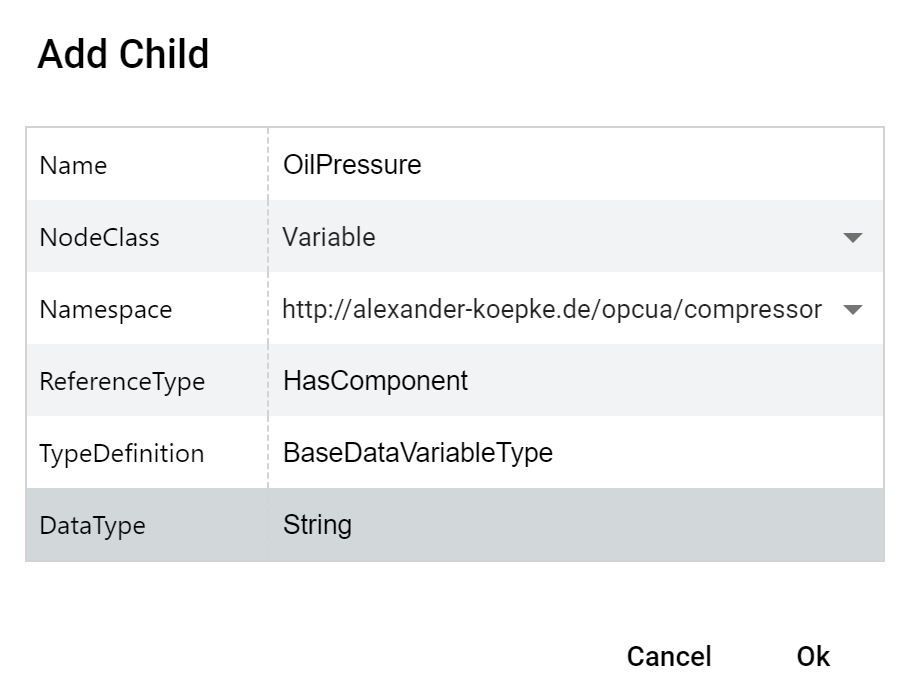
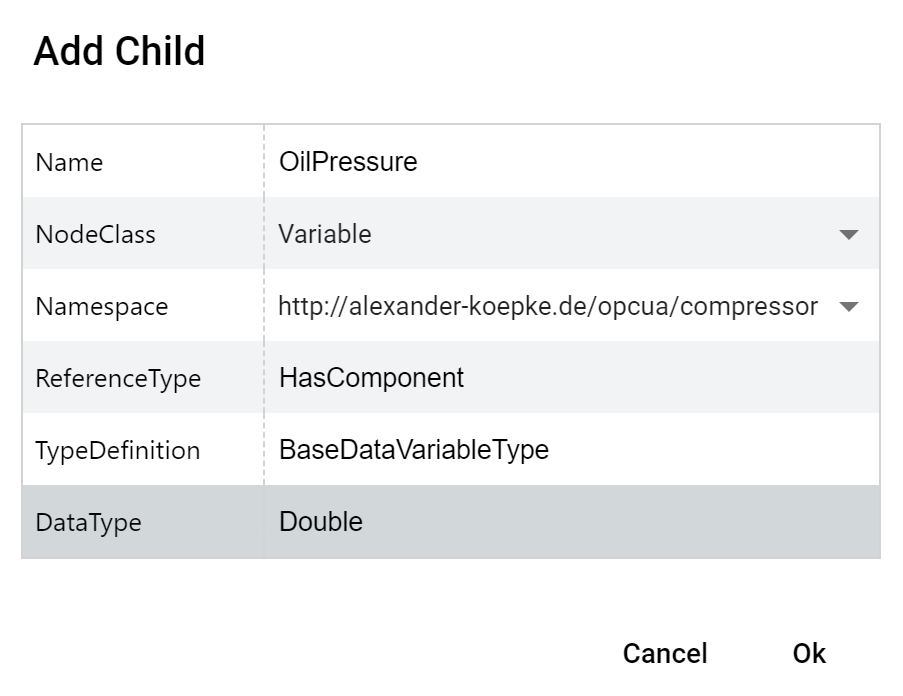
optimize text

diff --git a/content/post/2024-03-20_opcua_compressor_modelling.md b/content/post/2024-03-20_opcua_compressor_modelling.md
@@ -8,42 +8,63 @@ tags:
   - "siome"
 ---
 
-In this multi-step tutorial I'd like to explain (i) how to model a machine in OPC UA, (ii) to create an OPC UA server that simulates values for that machinery, (iii) to read data from the server and sending it upstream (e.g. into an cloud) as well as (iv) to detect anomalies.
+In this comprehensive tutorial, we will explore the process of OPC UA data modelling. The tutorial will cover modeling a machine, creating an OPC UA server to simulate machinery values, reading data from the server and transmitting it downstream (e.g., to the cloud), and detecting anomalies.
  
 ## What is OPC UA?
 To answer this question, I like to cite Stefan Hoppe the President and Executive Director of the OPC Foundation:
 > OPC Unified Architecture (OPC UA) is the information exchange standard for secure, reliable, manufacturer- and platform-independent industrial communications. It enables data exchange between products from different manufacturers and across operating systems. The OPC UA standard is based on specifications that were developed in close cooperation between manufacturers, users, research institutes and consortia, in order to enable consistent information exchange in heterogeneous systems.
->
+>  
 >For nearly three decades, OPC has been, and continues to be, the go to connectivity standard in indus-
 try. With the advent of the Internet of Things (IoT) era, OPC adoption has also shown growth in new, non-industrial markets. By introducing a Service-Oriented-Architecture (SOA) in industrial automation systems in 2007, OPC UA started to offer a scalable, platform-independent solution for interoperability which combines the benefits of web services and integrated security with a consistent data model.
 
 OPC UA is an IEC standard and is therefore ideally suited for collaboration with other organizations.
-The biggest value from my point of view is that OPC UA were able to create an ecosystem for connectivity, it is not just one protocol (opc.tcp) rather can work with different procotols (opc.http, mqtt, ...) and different payload formats (UADP, Json, XML, ...) and even more important today are the so called OPC UA Companion Specs, which provide the best available industrial information model to interact with all sorts for machineries.
+The biggest value from my point of view is that OPC UA were able to create an ecosystem for connectivity, it is not just one protocol (opc.tcp) rather can work with different procotols (opc.http, mqtt, ...) and different payload encodings (UADP, Json, XML, ...) and even more important today are the so called OPC UA Companion Specs, which provide the best available industrial information model to interact with all sorts for machineries.
 
-## Isn't OPC UA too complex for simple use cases?
-Well I believe it is not too complex but let's see a concrete example, we will use an compressor as example for an machine. The compressor is defined by 4 properties
+## Demystifying OPC UA Data Modelling
+### Is OPC UA Too Complex?
+Despite its comprehensive capabilities, OPC UA is not overly complex, as demonstrated through a concrete example. Consider modeling a compressor with four properties:
+
 * EnergyConsumption (double)
-* ErrorState (boolean) 
+* ErrorState (boolean)
 * MachineIdentifier (string)
 * OilPressure (double)
-  
-The defacto standard to model something in OPC UA are NodeSet2 XML files, and there are a variaty of tools to generate them. We are going to use the free [Siemens OPC UA Modeling Editor (SiOME)]([https://support.industry.siemens.com/cs/document/109755133/siemens-opc-ua-modeling-editor-(siome)?dti=0&dl=en&lc=de-DE](https://support.industry.siemens.com/cs/document/109755133/siemens-opc-ua-modeling-editor-(siome)?dti=0&dl=en&lc=de-DE)). SiOME is an Windows application that can be downloaded for free after registration and don't need an installation.
+
+The defacto standard to model something in OPC UA are NodeSet2 XML files, and there are a variaty of tools to generate them. We are going to use the free [Siemens OPC UA Modeling Editor (SiOME)]([https://support.industry.siemens.com/cs/document/109755133/siemens-opc-ua-modeling-editor-(siome)?dti=0&dl=en&lc=de-DE](https://support.industry.siemens.com/cs/document/109755133/siemens-opc-ua-modeling-editor-(siome)?dti=0&dl=en&lc=de-DE)). SiOME is an Windows application that can be downloaded for free after registration and don't need an installation. Let's walk through the steps:
  
-Start by adding a new namespace, I will use `alexander-koepke.de/opcua/compressor` 
+1. Adding a Namespace
+
+Start by adding a new namespace, e.g., alexander-koepke.de/opcua/compressor.
 ![](/images/siome-new-namespace.png)
 ![](/images/siome-namespace-dialog.png)
-We will add a type called `MyCompressorType`, to do this right click on  _Root/Types/ObjectTypes/BaseObjectType_ and select _Add New ObjectType:_
+
+2. Creating Object Types
+
+Define a new type, such as `MyCompressorType`(right click on  _Root/Types/ObjectTypes/BaseObjectType_ and select _Add New ObjectType_)
  
 ![](/images/siome-new-objecttype-dialog.png)
-The new type is automatically selected in the tree and we can start adding fields to it. We will start with the _EnergyConsumption_ by right click on _Root/Types/ObjectTypes/BaseObjectType/MyCompressorType_ and select _Add Child:_
+
+3. Configuring Properties
+
+Add the properties and configure each property with the appropriate data type (right click on _Root/Types/ObjectTypes/BaseObjectType/MyCompressorType_ and select _Add Child_).
 ![](/images/siome-add-child-energyconsumption.png)
-We changed the _NodeClass_ to **Variable** (other possibilities are **Object** or **Method**) and the _DataType_ to **Double**. OPC UA has a rich type system, that can also be extended by own types, this is one of the reasons why OPC UA is so valuable to industrial communication. Now we finish our type by adding the other properties of the compressor:
+Change the _NodeClass_ to **Variable** (other possibilities are **Object** or **Method**) and the _DataType_ to **Double**. OPC UA has a rich type system, that can also be extended by own types, this is one of the reasons why OPC UA is so valuable to industrial communication. Now we finish our type by adding the other properties of the compressor:
 ![](/images/siome-add-child-errorstate.png)
 ![](/images/siome-add-child-machineidentifier.png)
 ![](/images/siome-add-child-oilpressure.png)
-... and we are **done** with the modelling and can save the result e.g. as [`MyCompressorType.NodeSet2.xml`](/files/MyCompressorType.NodeSet2.xml).  That was not so complex right? In the next article I will show how to use the NodeSet2 XML file to create an OPC UA server that simulate values for the compressor.
 
-## What would be the difference in "bigger production" environments?
-OPC UA provides a big set of existing information models all available under [https://reference.opcfoundation.org](https://reference.opcfoundation.org) (Documents with number bigger or equal to 10000-100  are typically information models). So it is a good starting point look if there is already a companion specification available for the type of "thing" to model and read it. If there is no specific companion spec, it is good practice to use at least **10000-100 Devices** to begin with. The Companion Spec explains the types, interfaces, events, datatypes etc. that are predefined and how to use them.  
-Once you found the right companion specification, you could download the related NodeSet2 XML file (and all the NodeSet2 XMLs of companion specifications it references) from [https://github.com/OPCFoundation/UA-Nodeset](https://github.com/OPCFoundation/UA-Nodeset). As example this is the companion specification for Devices (Device Integration): [https://raw.githubusercontent.com/OPCFoundation/UA-Nodeset/latest/DI/Opc.Ua.Di.NodeSet2.xml](https://raw.githubusercontent.com/OPCFoundation/UA-Nodeset/latest/DI/Opc.Ua.Di.NodeSet2.xml)
-So the difference would be that you before start creating your own types, you would import all NodeSet2 XMLs of the Companion Specs yoou like to use and reuse the definitions already provided to you. In case that the compressor should be modelled with Device Integration, we would add objects of `IVendorNameplateType` and `ITagNameplateType` as children of the `MyCompressorType`.
+4. Saving the Model
+
+Save the model as a NodeSet2 XML file, e.g.,  [`MyCompressorType.NodeSet2.xml`](/files/MyCompressorType.NodeSet2.xml).
+
+By following these steps, users can efficiently model machinery in OPC UA without unnecessary complexity.
+
+## Scaling Up for Production Environments
+In larger production environments, OPC UA provides a vast array of existing information models, available at https://reference.opcfoundation.org. These models, typically represented by documents with numbers equal to or greater than **10000-100**, serve as companion specifications, defining predefined types, interfaces, events, and data types.
+  
+For more sophisticated applications, it's advisable to leverage existing companion specifications before creating custom types. These specifications streamline the modeling process by providing pre-defined structures and definitions. Users can import NodeSet2 XML files from the repository https://github.com/OPCFoundation/UA-Nodeset to incorporate companion specifications into their projects seamlessly.
+
+As example to start the integration of the companion specification for Devices (Device Integration): [https://raw.githubusercontent.com/OPCFoundation/UA-Nodeset/latest/DI/Opc.Ua.Di.NodeSet2.xml](https://raw.githubusercontent.com/OPCFoundation/UA-Nodeset/latest/DI/Opc.Ua.Di.NodeSet2.xml) add instances of `IVendorNameplateType` and `ITagNameplateType` to the `MyCompressorType`.
+
+In conclusion, while OPC UA offers robust capabilities for complex industrial scenarios, tools like SiOME and existing companion specifications simplify the data modeling process, making OPC UA accessible even for simpler use cases.
+
+Stay tuned for the next article, where we'll demonstrate how to use the NodeSet2 XML file to create an OPC UA server that simulates values for the compressor.
